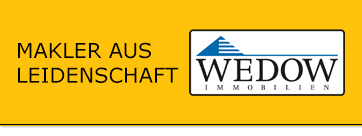
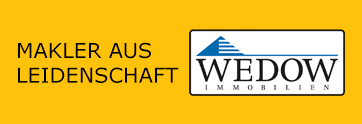
Index

Changed region(s): [[0.5166, 0.1935, 0.9724, 0.7742], [0.0304, 0.3145, 0.5166, 0.6774], [0.0, 0.8952, 1.0, 1.0]]

diff --git a/index.html b/index.html
@@ -12,21 +12,24 @@
 <br/>
 <br/>
 
-<table width="90%" align="center" bgcolor="#ffffff" cellpadding="0" cellspacing="0">
+<table width="100%" align="center" bgcolor="#ffffff" cellpadding="0" cellspacing="0">
 <tr>
-	<td colspan="3" align="center" bgcolor><img src="img/head.png" width="100%" id="headersize"></td>
+	<td colspan="3" align="center" valign="bottom" bgcolor="fec20a"><img src="img/head.png" width="100%" id="headersize"></td>
 </tr>
 <tr>
-<td colspan="3" align="center">
+	<td colspan="3" align="center" valign="top" bgcolor="ffffff"><img src="img/hr.png" width="100%"></td>
+</tr>
+<tr>
+<td colspan="3" align="center"  bgcolor="#ffffff" width="100%">
 <table width="100%" align="center" bgcolor="#ffffff" cellpadding="5" cellspacing="5">
 <tr>
-	<td width="30%" align="center"><a href="immobilien.html"><img src="img/immobilien.png" id="menuebuttons" width="100%"></a><br><span class="menusize">Immobilien</span></td>
+	<td width="30%" align="center"><a href="immobilien.html"><img src="img/immobilien.png" id="menuebuttons" width="100%"/></a><br><span class="menusize">Immobilien</span></td>
 	<td width="30%" align="center"><a href="ueberuns.html"><img src="img/uns.png" id="menuebuttons" width="100%"></a><br><span class="menusize">&Uuml;ber uns</span></td>
 	<td width="30%" align="center"><a href="tel:492406668699"><img src="img/call.png" id="menuebuttons" width="100%"></a><br><span class="menusize">Anrufen</span></td>
 </tr>
 <tr>
 	<td width="30%" align="center"><a href="http://touch.facebook.com/wedow.immobilien"><img src="img/fb.png" id="menuebuttons" width="100%"></a><br><span class="menusize">Facebook</span></td>
-	<td width="30%" align="center"><a href="https://twitter.com/WedowImmobilien"><img src="img/tw.png" id="menuebuttons" width="100%"></a><br><span class="menusize">Twitter</span></td>
+	<td width="30%" align="center"><a href="https://twitter.com/WedowImmobilien"><img src="img/tw.png" id="menuebuttons" width="100%"/></a><br/><span class="menusize">Twitter</span></td>
 	<td width="30%" align="center"><a href="video.html"><img src="img/video.png" id="menuebuttons" width="100%"></a><br><span class="menusize">Videos</span></td>
 </tr>
 <tr>
